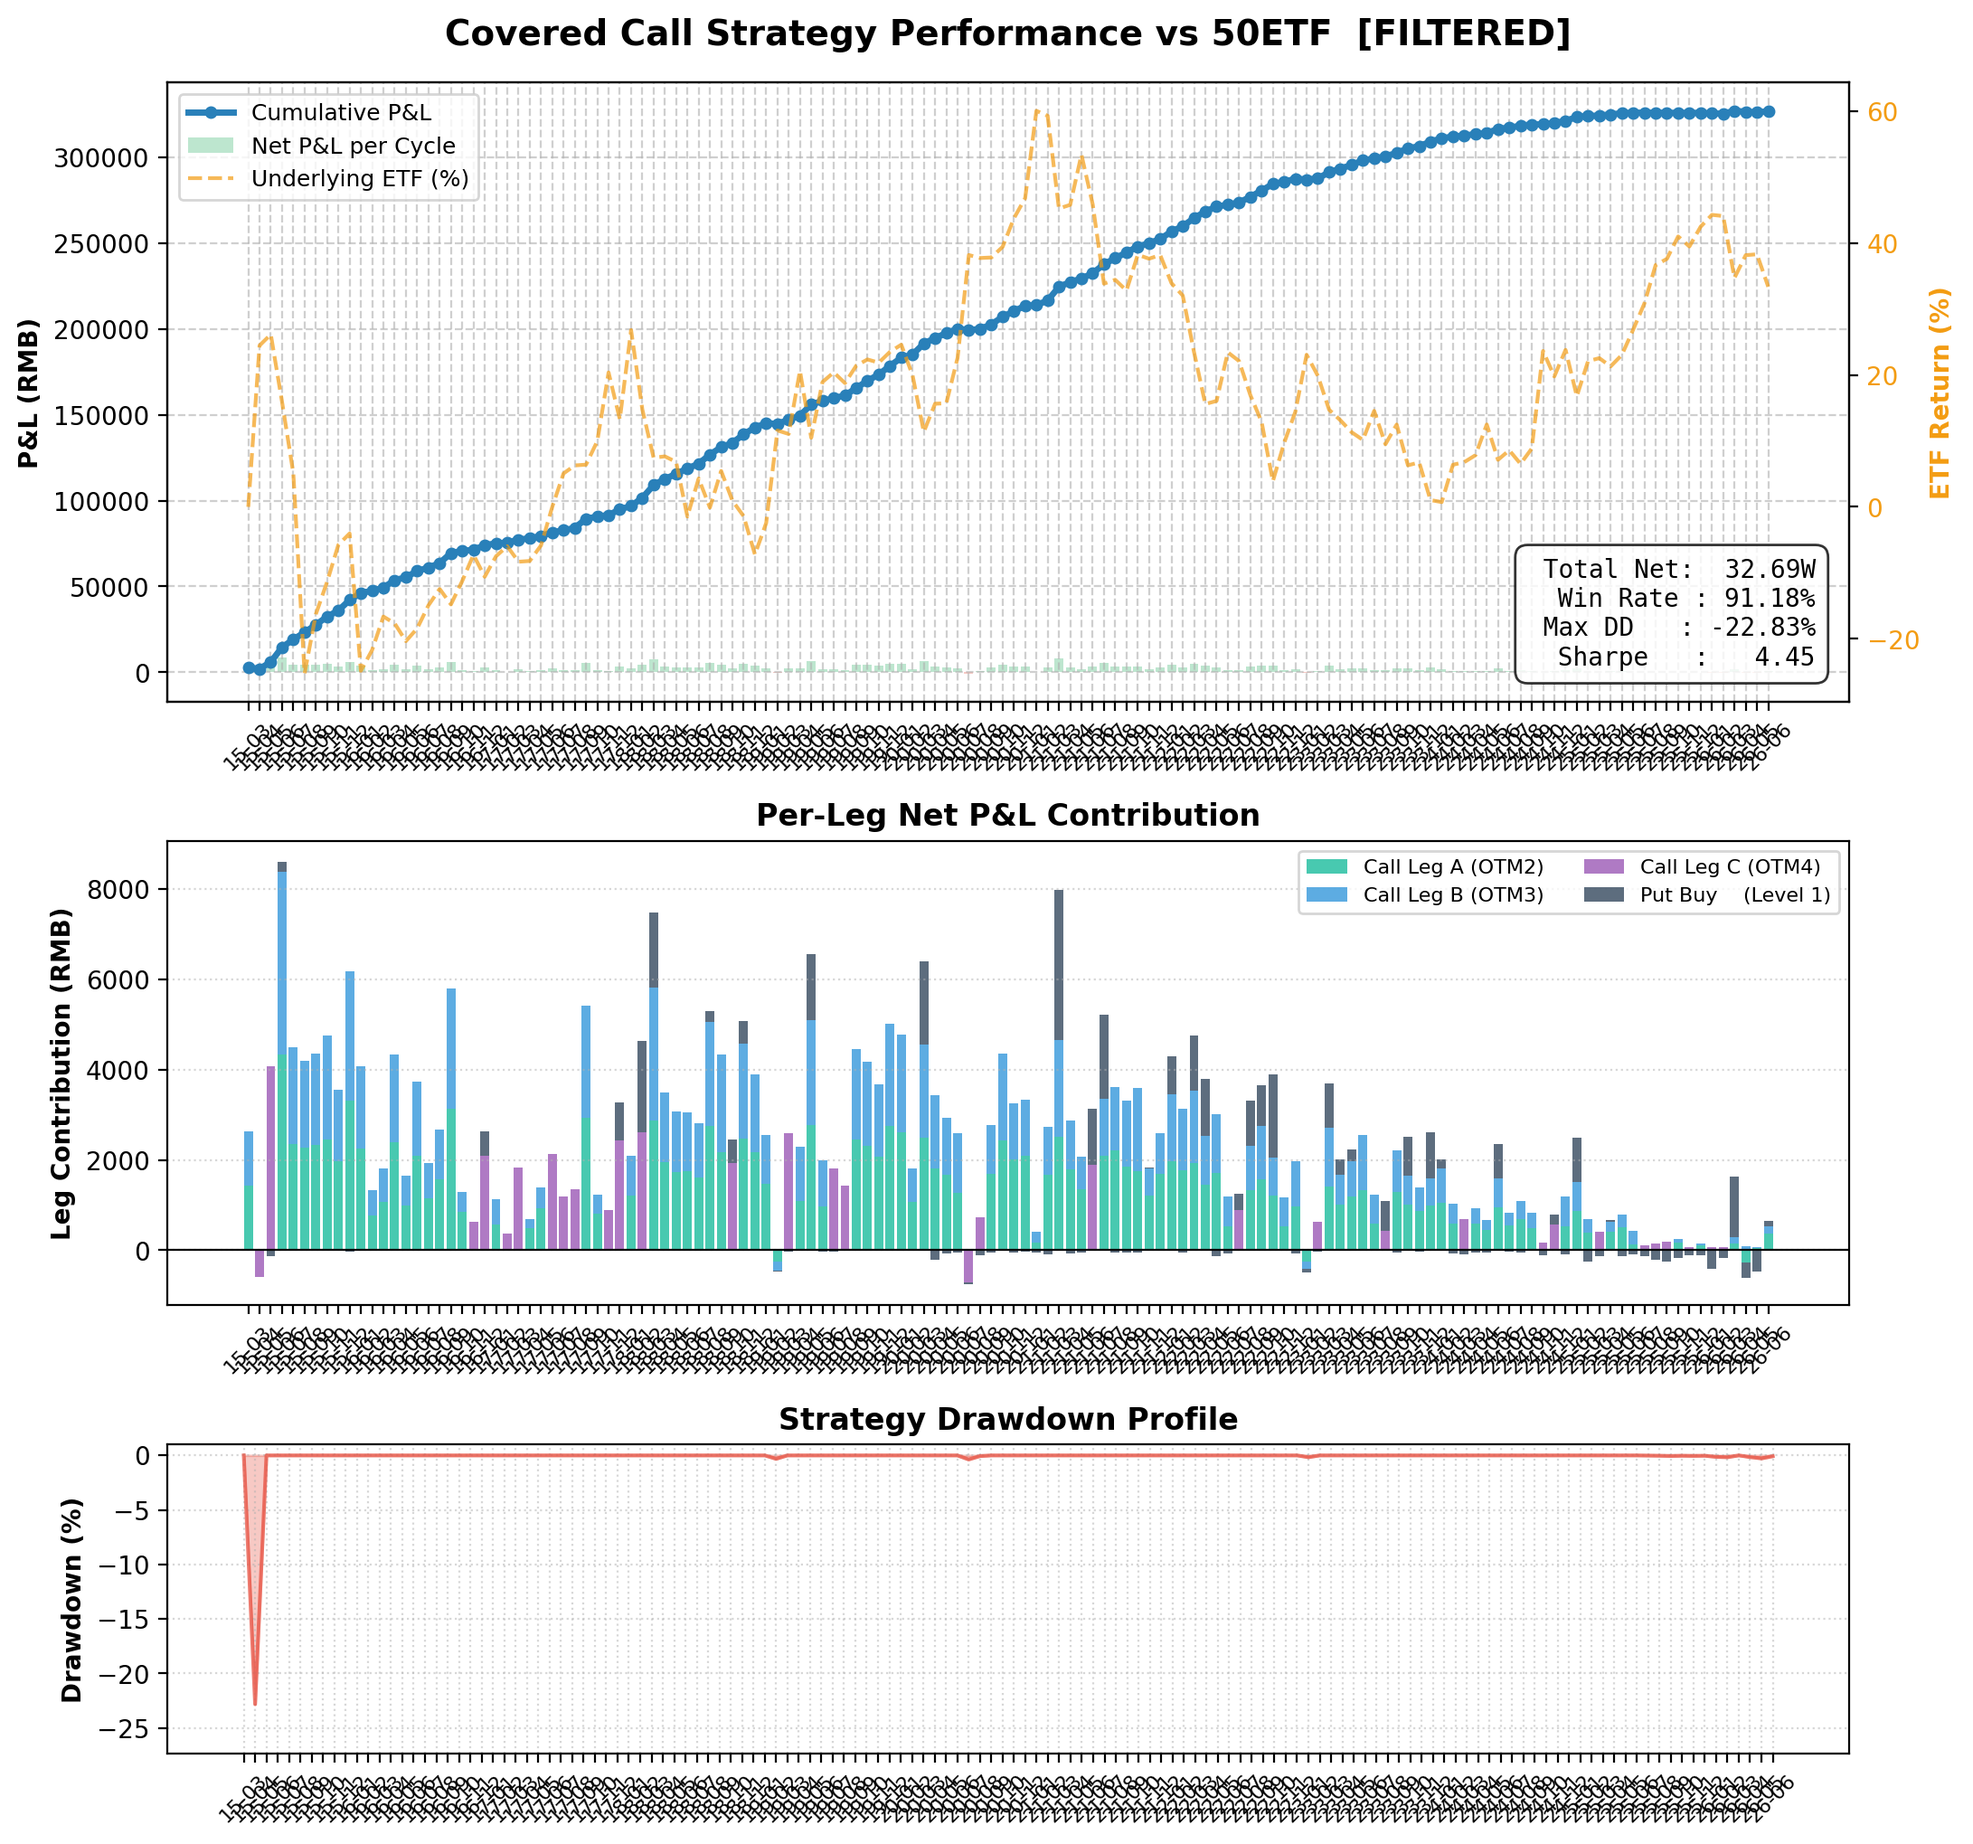
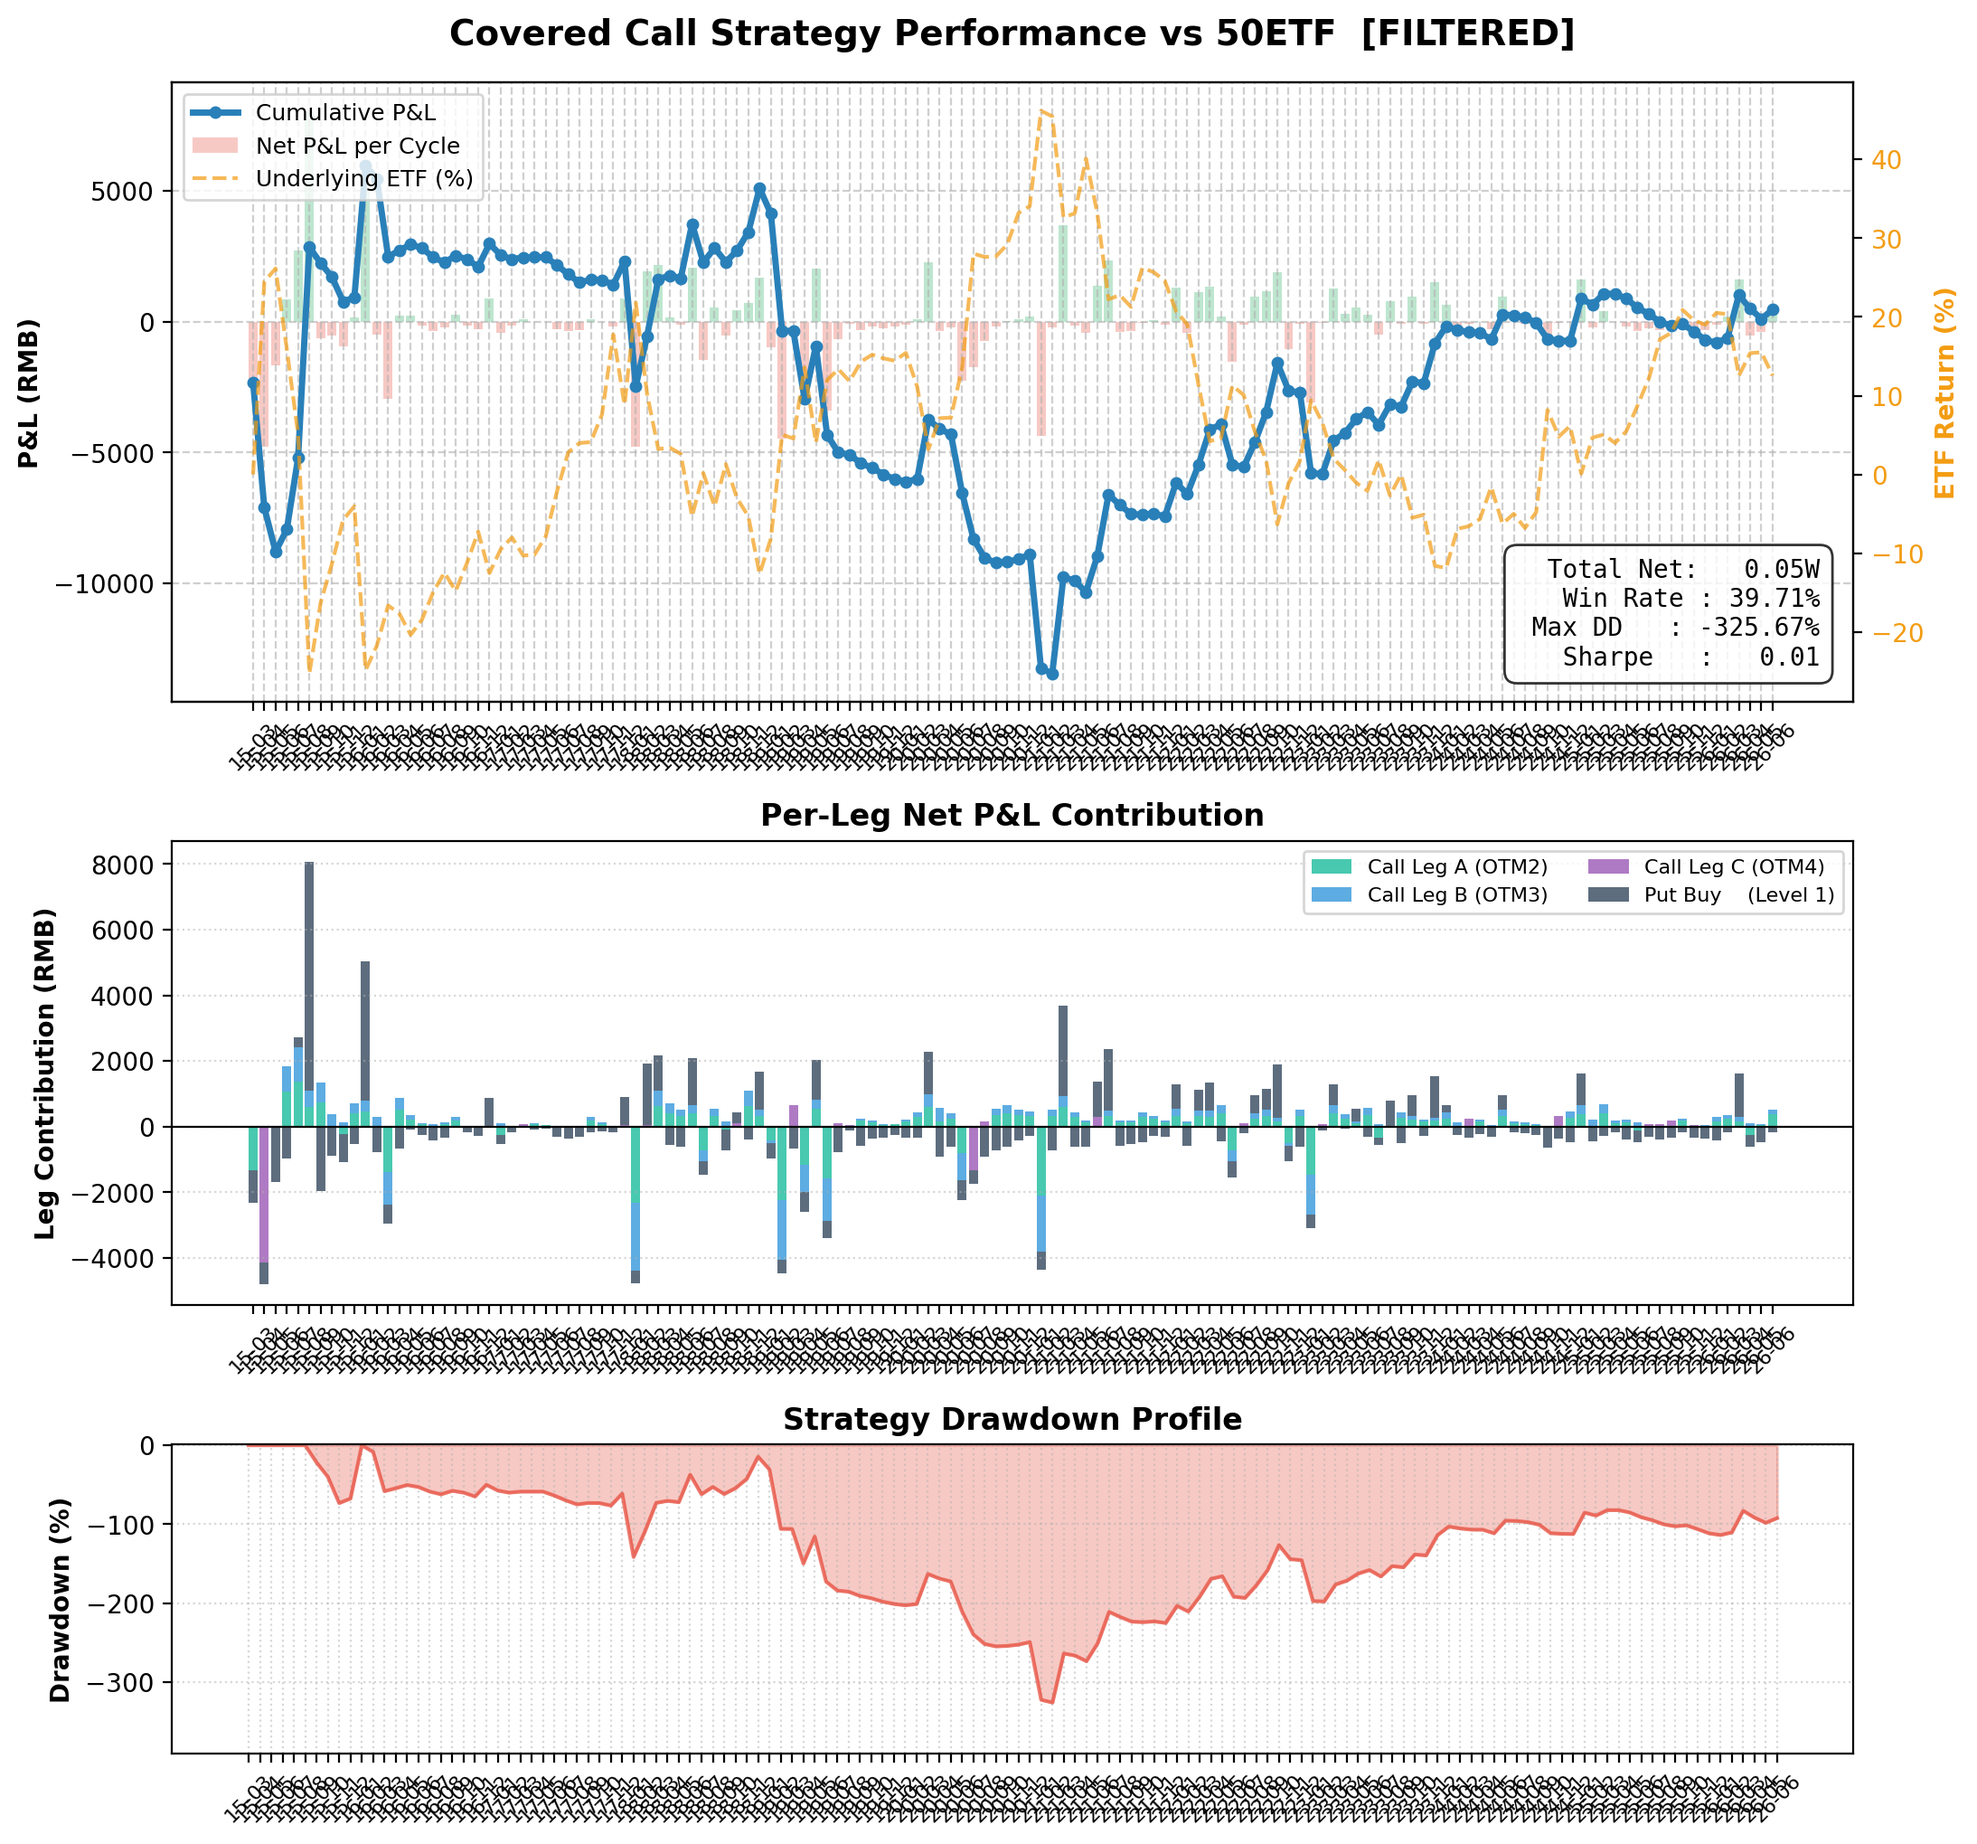
Process

diff --git a/backtest_covered_call.py b/backtest_covered_call.py
@@ -258,14 +258,17 @@ def get_30d_iv(opt, etf, date):
         return IV_THRESHOLD
     etf_close = float(etf.loc[date_norm, "close"])
 
-    # All calls for this date
-    day_calls = opt[
-        (opt["date"] == date) &
-        (opt["option_type"] == "C") &
-        (opt["close"] > 0)
-    ].copy()
+    # All calls for this date (support fast dict lookup)
+    if isinstance(opt, dict):
+        day_calls = opt.get(date)
+    else:
+        day_calls = opt[
+            (opt["date"] == date) &
+            (opt["option_type"] == "C") &
+            (opt["close"] > 0)
+        ].copy()
 
-    if day_calls.empty:
+    if day_calls is None or day_calls.empty:
         return IV_THRESHOLD
 
     # Group by expiry and find ATM strike for each
@@ -610,11 +613,13 @@ def run_backtest(opt, etf):
     else:
         print("\nPre-calculating daily 30-day IVs (this may take a moment)...")
         trading_days = sorted(etf.index.unique())
+        # Pre-group options by date for 740x speedup
+        day_calls_dict = {d: group for d, group in opt[(opt["option_type"] == "C") & (opt["close"] > 0)].groupby("date")}
         iv_data = {}
         for i, d in enumerate(trading_days):
             if i % 100 == 0:
                 print(f"  Progress: {i}/{len(trading_days)}")
-            iv_data[d] = get_30d_iv(opt, etf, d)
+            iv_data[d] = get_30d_iv(day_calls_dict, etf, d)
         daily_ivs = pd.Series(iv_data).sort_index()
         # Save cache
         os.makedirs(os.path.dirname(PATH_IV_CACHE), exist_ok=True)

diff --git a/diagnose_500etf.py b/diagnose_500etf.py
@@ -352,11 +352,13 @@ if __name__ == "__main__":
     else:
         print("Pre-calculating daily 30-day IVs...")
         trading_days = sorted(etf.index.unique())
+        # Pre-group options by date for 740x speedup
+        day_calls_dict = {d: group for d, group in opt[(opt["option_type"] == "C") & (opt["close"] > 0)].groupby("date")}
         iv_data = {}
         for i, d in enumerate(trading_days):
             if i % 100 == 0:
                 print(f"  Progress: {i}/{len(trading_days)}")
-            iv_data[d] = get_30d_iv(opt, etf, d)
+            iv_data[d] = get_30d_iv(day_calls_dict, etf, d)
         daily_ivs = pd.Series(iv_data).sort_index()
 
     variants = [

diff --git a/update_data.py b/update_data.py
@@ -62,7 +62,8 @@ def update_etf_prices(cfg):
     etf = rq.get_price(
         underlying, start_date=start.strftime("%Y-%m-%d"),
         end_date=pd.Timestamp.now().strftime("%Y-%m-%d"),
-        frequency="1d"
+        frequency="1d",
+        adjust_type="none"
     )
 
     if etf is None or etf.empty:

diff --git a/AGENTS.md b/AGENTS.md
@@ -51,9 +51,10 @@ README.md                      # English README (links to Chinese docs)
 
 ## Architecture
 
-**Data flow:** rqdatac → `update_data.py` → `data/*.parquet` → all scripts
-
-**Data loading (critical):** The opt parquet contains daily-correct `strike_price` and `contract_multiplier` (adjusted when the underlying ETF pays dividends). The instruments parquet holds FINAL post-adjustment values. `load_data()` must only merge `maturity_date` and `option_type` from instruments — never overwrite opt's daily strike/mult. Affects: `backtest_covered_call.py`, `research_otm_levels.py` (also used by `diagnose_500etf.py`, `research_robustness.py`, `evaluate_combinations.py`), `research_otm_levels_1.py`, `research_otm_no_filter.py`.
+**Data loading (critical):** 
+1. The opt parquet contains daily-correct `strike_price` and `contract_multiplier` (adjusted when underlying ETF pays dividends). The instruments parquet holds FINAL post-adjustment values. `load_data()` must only merge `maturity_date` and `option_type` from instruments — never overwrite opt's daily strike/mult.
+2. **Underlying ETF Daily Prices must be unadjusted (不复权)** (pulled with `adjust_type="none"` in `update_data.py`). If pre-adjusted prices are used, it creates a mismatch with unadjusted option strikes/premiums, causing major look-ahead bias and false backtest performance.
+3. **ATM 30d IV Speed Optimization**: Daily 30d IV calculation in `get_30d_iv` is optimized by passing a pre-grouped dictionary of calls instead of running slow boolean filters on the full DataFrame, reducing runtime by ~740x.
 
 **Backtest logic** (`backtest_covered_call.py`):
 - Cycles = monthly option expiries, enter on first trading day after previous expiry
@@ -78,13 +79,13 @@ README.md                      # English README (links to Chinese docs)
 
 **Pricing bug fixed (strike/mult from wrong source).** The old merge used instruments table values (final post-adjustment) instead of opt parquet's daily-correct values. For 22% of contracts with dividend adjustments, this used the wrong strike and multiplier on pre-adjustment dates, understating P&L by ~6K total for 300ETF (6 cycles affected, 2 flipped loss→win).
 
-**Corrected backtest results:**
+**Corrected backtest results (True results after fixing adjusted ETF price mismatch):**
 
 | ETF | Win Rate | Total P&L |
 |-----|----------|-----------|
-| 300ETF | 91% (71/78) | +240,998 RMB |
-| 500ETF | 67% (30/45) | +22,182 RMB |
-| 50ETF | 91% (124/136) | +326,929 RMB |
+| 300ETF | 47% (37/78) | +6,420 RMB |
+| 500ETF | 36% (16/45) | -4,628 RMB |
+| 50ETF | 40% (54/136) | +463 RMB |
 
 **Known approximation (not a bug):** ±2% spread from mid is a simplification; real bid-ask spreads vary by liquidity, DTE, and moneyness. Conservative for liquid ATM/near-OTM contracts, possibly optimistic for deep OTM.
 

diff --git a/GEMINI.md b/GEMINI.md
@@ -51,7 +51,10 @@ README.md                      # English README (links to Chinese docs)
 
 ## Architecture
 
-**Data flow:** rqdatac → `update_data.py` → `data/*.parquet` → all scripts
+**Data loading & pricing rules (critical):**
+1. **Underlying ETF Daily Prices must be unadjusted (不复权)** (downloaded with `adjust_type="none"` in `update_data.py`). Pre-adjusted prices create a severe mismatch with nominal option strikes, introducing look-ahead bias and invalidating the backtest.
+2. The opt parquet contains daily-correct `strike_price` and `contract_multiplier`. `load_data()` must only merge `maturity_date` and `option_type` from instruments — never overwrite opt's daily strike/mult.
+3. **ATM 30d IV Optimization**: Pre-groups options by date once into a dictionary (`day_calls_dict`) before iterating, achieving ~740x speedup in implied volatility lookup.
 
 **Backtest logic** (`backtest_covered_call.py`):
 - Cycles = monthly option expiries, enter after previous expiry
@@ -89,14 +92,14 @@ README.md                      # English README (links to Chinese docs)
 2. **Big loss cycles from sharp rallies** — 2025-01 (-3,375), 2025-12 (-4,057), 2026-03 (-7,261). All had LOW RSI (37-46), filter can't prevent
 3. **Expensive put hedge** — Level 1 put often costs 500-1500 RMB, creating drag on flat/rally months
 
-**10-variant diagnostic results** (`diagnose_500etf.py -e 500`):
+**10-variant diagnostic results** (True results after fixing adjusted ETF price mismatch):
 
 | Variant | P&L | Wins | Assignments |
 |---------|-----|------|-------------|
-| RSI70+BBU (implemented) | 22,145 | 30/45 | 6 |
-| Baseline RSI66+BBU | 21,448 | 29/45 | 6 |
-| IVR-Driven (OTM1+2 low IVR) | 21,396 | 31/45 | 18 |
-| Wider OTM3+4/5 | 14,047 | 20/45 | 3 |
+| Baseline | -4,628 | 16/45 | 1 |
+| RSI70+BBU | -3,931 | 17/45 | 1 |
+| IVR-Driven | -3,873 | 16/45 | 3 |
+| Wider OTM3+4/5 | -5,720 | 12/45 | 0 |
 
 **What was tried and failed:**
 - IVR-driven OTM: Low IVR → sell closest strikes → catastrophic assignment losses (-18K worst cycle)
@@ -127,6 +130,7 @@ README.md                      # English README (links to Chinese docs)
 ## TODO
 
 - [x] Explore data completeness for 500ETF and make research more robust → `research_robustness.py`
+- [x] Audit backtest and fix adjusted vs unadjusted ETF price data quality mismatch (Jun 2026)
 - [ ] Test early roll management for 500ETF — roll calls to higher strikes if underlying rallies >5% mid-cycle
 - [ ] Explore more filters on real data: ROC5/10, f_sma50, CCI, vol_ratio, ATR_low — promising on synthetic
 - [ ] Explore weekly options for 500ETF if available — shorter DTE reduces rally exposure
